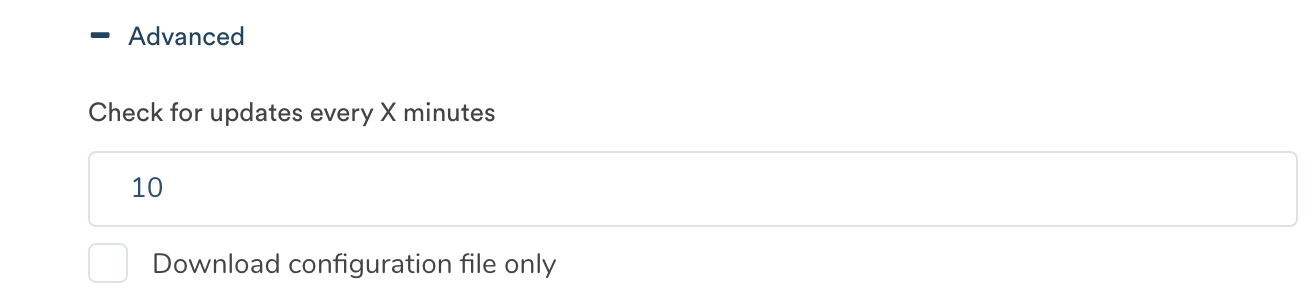
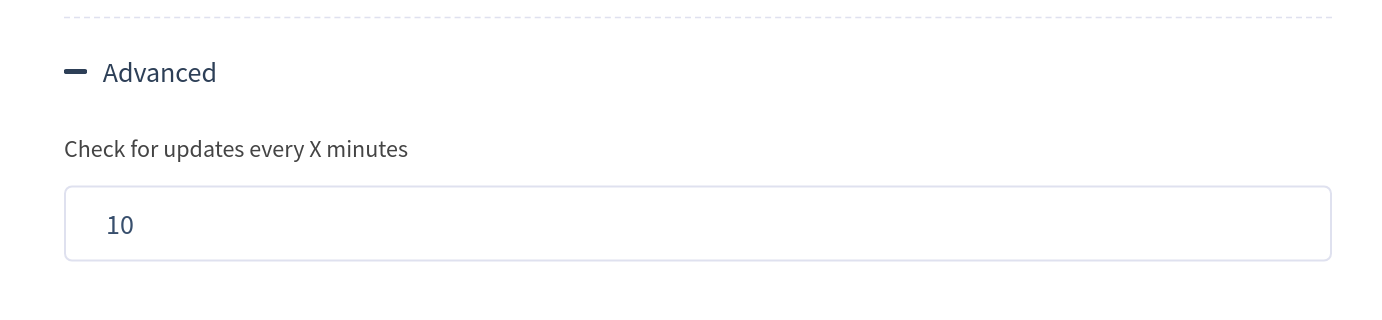
Update the add device modal screenshots
Change-type: minor
See: https://github.com/balena-io/balena-ui/issues/4710

diff --git a/pages/learn/getting-started.md b/pages/learn/getting-started.md
@@ -59,11 +59,16 @@ A toggle is also used to select whether your network connection will be through 
 
 <img alt="Network configuration" src="/img/common/app/network.png" width="80%">
 
-Clicking *Advanced* presents the option to select the rate at which your device checks for updates and the option to download just a configuration file (`config.json`) rather than an entire image:
+Clicking *Advanced* presents the option to select the rate at which your device checks for updates:
 
 <img alt="Advanced options" src="/img/common/app/advanced.png" width="80%">
 
 Once you have finished your image configuration, click the *Download {{ $names.os.lower }}* button. When the download completes, you should have a zipped image file with a name like `{{ $names.company.short }}-First-App-2.47.1+rev1-v10.6.27.img.zip`, where `First-App` is the name you gave your application on the dashboard.
+Alternatively, by clicking on the toggle section of the download button, you also have the option to download just a configuration file (`config.json`) rather than an entire image.
+
+<img alt="Advanced options" src="/img/common/app/download_image_or_config.png" width="80%">
+
+
 
 ## Provision device
 
